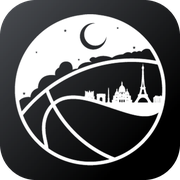
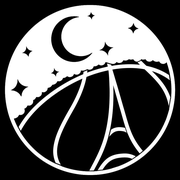
Aligner le dépôt sur la version en production
- users.php : retirer le +450 ajouté au nombre total d'utilisateurs,
  absent de la version déployée.
- favicon.ico, favicon-32.png, apple-touch-icon.png : reprendre les
  icônes présentes sur le serveur.

diff --git a/users.php b/users.php
@@ -41,7 +41,7 @@ if ($saisonId) {
 }
 $stmt = $pdo->prepare("SELECT COUNT(id) AS total_users FROM user");
 $stmt->execute();
-$total = (int) $stmt->fetch(PDO::FETCH_ASSOC)['total_users'] + 450;
+$total = (int) $stmt->fetch(PDO::FETCH_ASSOC)['total_users'];
 ?>
 
 
